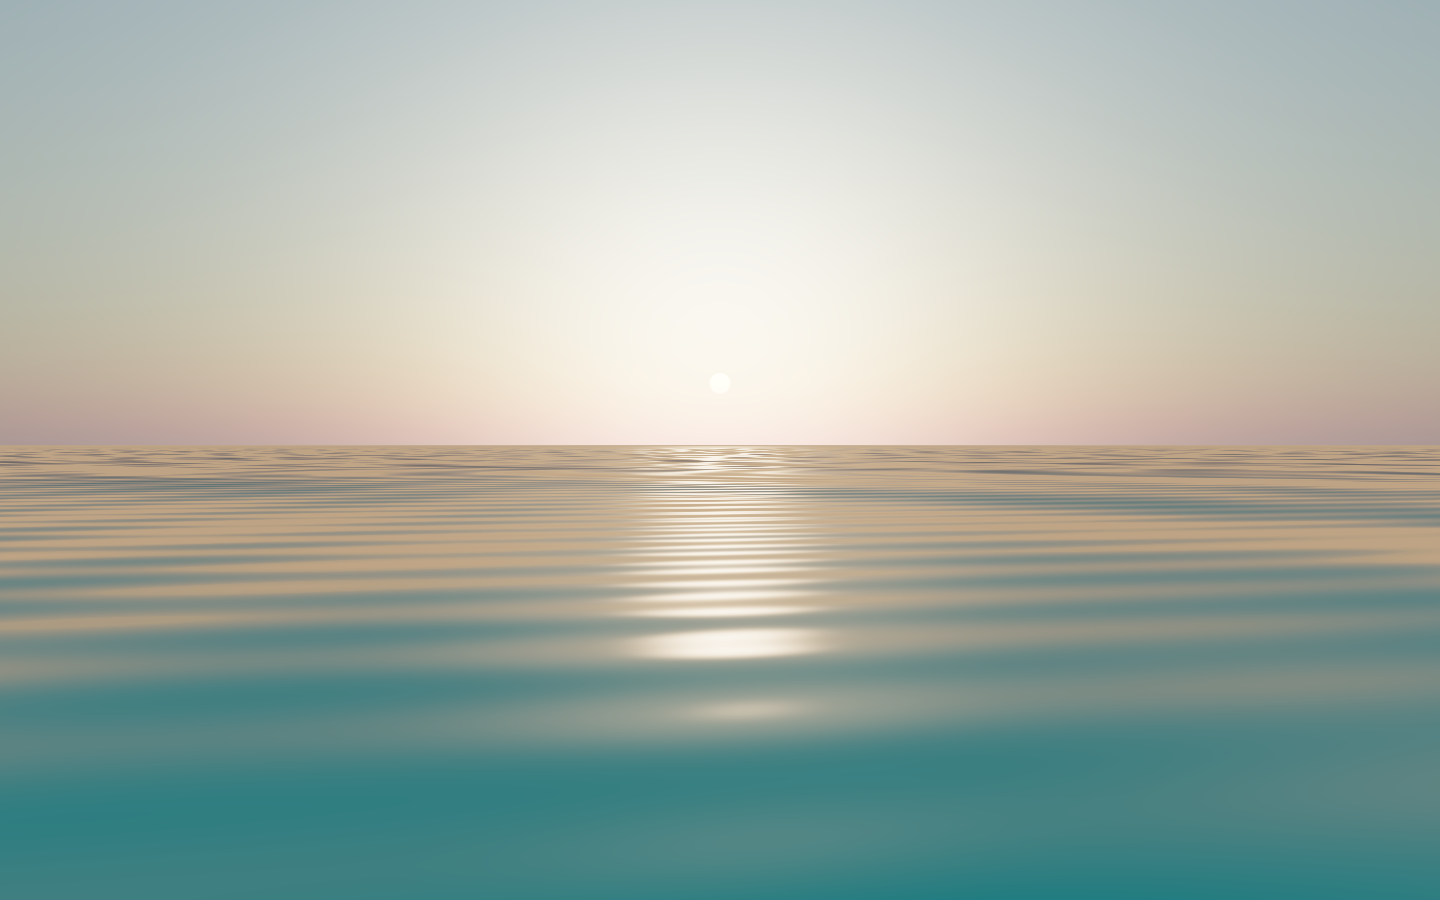
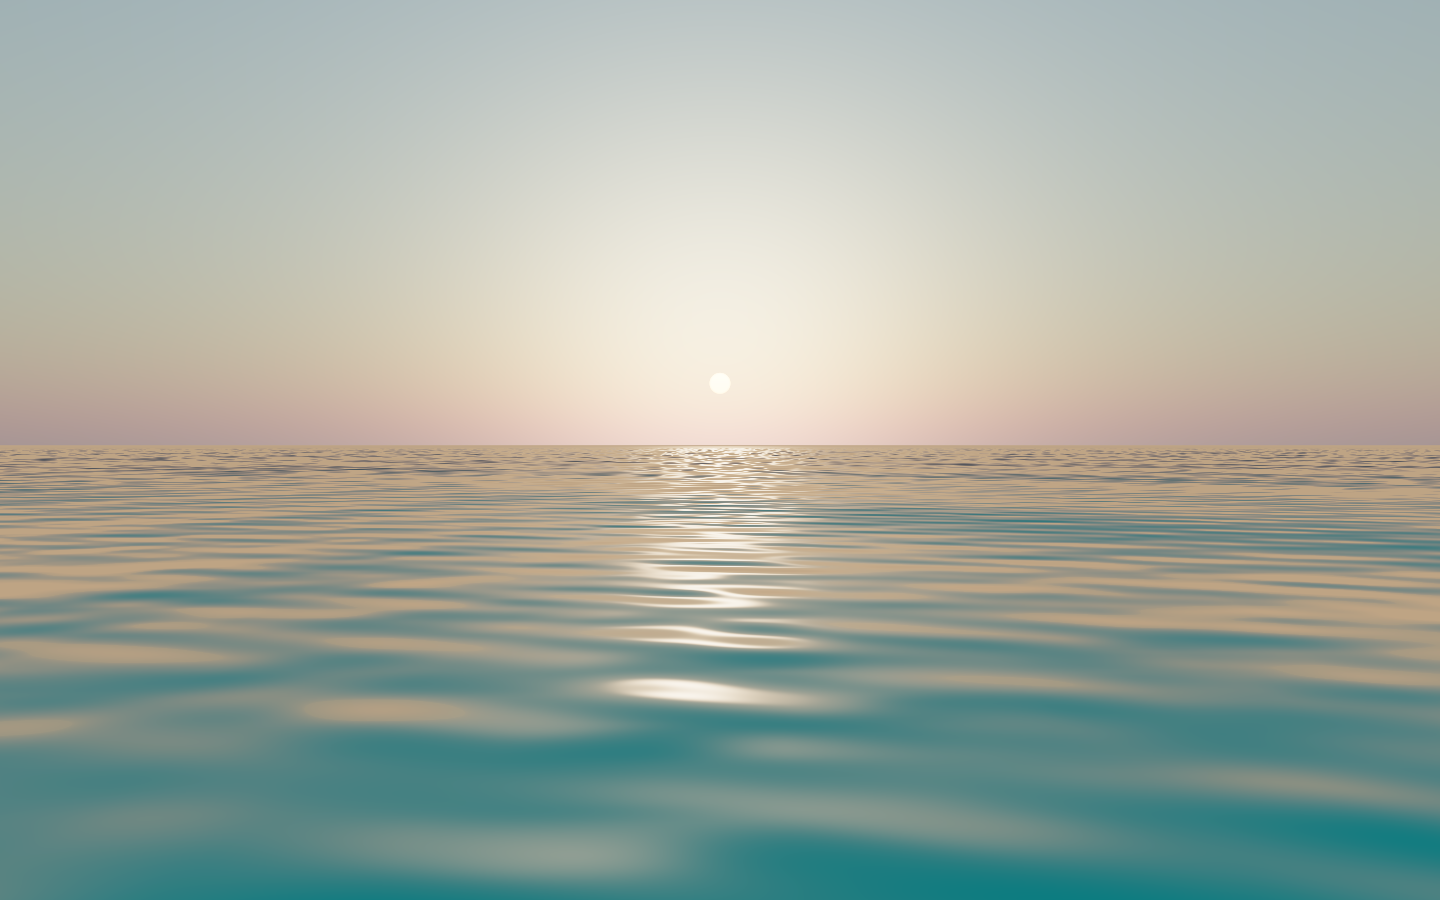
Pilot lessons: ocean shader animation fix (material in useMemo), more waves and noise, calmer sunset sky; rendered stills and data-stage guidance; self-hosted fonts; private-club marina variant and dock-photo fallback; mobile bar and compact concept tag on phones; QA and interact false positives fix
Claude-Session: https://claude.ai/code/session_01BKds8nJkxD2wBKhtSHhqqd

Changed region(s): [[0.0, 0.4978, 1.0, 1.0]]

diff --git a/.claude/skills/site-playbooks/recipes/Ocean.tsx b/.claude/skills/site-playbooks/recipes/Ocean.tsx
@@ -22,11 +22,18 @@ const oceanFrag = /* glsl */ `
 uniform float uTime; uniform vec3 uSun; uniform vec3 uDeep; uniform vec3 uShallow; uniform vec3 uHorizon; uniform vec3 uZenith; uniform vec3 uSunColor;
 varying vec3 vWorld;
 vec2 wave(vec2 p, vec2 d, float f, float s, float a){ float ph = dot(p, d) * f + uTime * s; return d * cos(ph) * a * f; }
+float hash(vec2 p){ return fract(sin(dot(p, vec2(127.1, 311.7))) * 43758.5453); }
+float vnoise(vec2 p){ vec2 i = floor(p), f = fract(p); f = f * f * (3.0 - 2.0 * f);
+  return mix(mix(hash(i), hash(i + vec2(1, 0)), f.x), mix(hash(i + vec2(0, 1)), hash(i + vec2(1, 1)), f.x), f.y); }
 void main(){
   vec2 p = vWorld.xz;
   vec2 g = wave(p, normalize(vec2(1.0, .3)), .08, 1.1, .5) + wave(p, normalize(vec2(-.4, 1.0)), .13, 1.5, .32)
          + wave(p, normalize(vec2(.7, -.6)), .31, 2.3, .14) + wave(p, normalize(vec2(-.9, -.2)), .73, 3.1, .06)
-         + wave(p, normalize(vec2(.2, .9)), 1.9, 4.7, .022);
+         + wave(p, normalize(vec2(.2, .9)), 1.9, 4.7, .022) + wave(p, normalize(vec2(.95, .35)), 1.17, 3.7, .03)
+         + wave(p, normalize(vec2(-.55, .83)), 2.9, 5.9, .012) + wave(p, normalize(vec2(.33, -.94)), 4.3, 7.3, .007);
+  // fine noise breaks up the regular stripes that a sum of sine waves produces
+  vec2 q = p * 0.9 + vec2(uTime * 0.35, uTime * 0.2);
+  g += (vec2(vnoise(q + vec2(.13, 0.)) - vnoise(q - vec2(.13, 0.)), vnoise(q + vec2(0., .13)) - vnoise(q - vec2(0., .13)))) * 0.22;
   vec3 n = normalize(vec3(-g.x, 1.0, -g.y));
   vec3 v = normalize(cameraPosition - vWorld);
   float dist = length(cameraPosition.xz - vWorld.xz);
@@ -65,17 +72,22 @@ function Scene({ elevation = 4, azimuth = 180, deep = '#0d3f57', shallow = '#2a9
     return new THREE.Vector3().setFromSphericalCoords(1, phi, theta)
   }, [elevation, azimuth])
   const golden = elevation < 8
+  // Build the material ourselves: in React Three Fiber v9 a `uniforms={obj}` prop on <shaderMaterial> is copied,
+  // so per-frame updates to obj silently do nothing (found in the Bell Channel pilot). Same rule for every shader recipe.
   const uniforms = useMemo(() => ({
     uTime: { value: 0 }, uSun: { value: sun.clone() },
     uDeep: { value: new THREE.Color(deep) }, uShallow: { value: new THREE.Color(shallow) },
     uHorizon: { value: new THREE.Color(golden ? '#f2c9a0' : '#cfe3ea') }, uZenith: { value: new THREE.Color(golden ? '#7f9bb3' : '#5f93c4') },
     uSunColor: { value: new THREE.Color(golden ? '#ffd2a1' : '#ffffff') },
   }), [sun, deep, shallow, golden])
+  const material = useMemo(() => new THREE.ShaderMaterial({ vertexShader: oceanVert, fragmentShader: oceanFrag, uniforms }), [uniforms])
+  useEffect(() => () => material.dispose(), [material])
 
   useEffect(() => {
     gl.toneMapping = THREE.ACESFilmicToneMapping; gl.toneMappingExposure = golden ? 0.5 : 0.6
     const u = sky.current.material.uniforms
-    u.turbidity.value = golden ? 7 : 4; u.rayleigh.value = golden ? 2.2 : 1.2; u.mieCoefficient.value = 0.005; u.mieDirectionalG.value = 0.86
+    // turbidity above ~4 turns a sunset sky olive; keep it low and let rayleigh carry the colour
+    u.turbidity.value = golden ? 3 : 2.5; u.rayleigh.value = golden ? 2.4 : 1.2; u.mieCoefficient.value = 0.005; u.mieDirectionalG.value = 0.86
     u.sunPosition.value.copy(sun)
   }, [gl, sun, golden])
 
@@ -89,9 +101,8 @@ function Scene({ elevation = 4, azimuth = 180, deep = '#0d3f57', shallow = '#2a9
   return (
     <>
       <sky ref={sky} scale={10000} />
-      <mesh rotation-x={-Math.PI / 2}>
+      <mesh rotation-x={-Math.PI / 2} material={material}>
         <planeGeometry args={[12000, 12000, 1, 1]} />
-        <shaderMaterial vertexShader={oceanVert} fragmentShader={oceanFrag} uniforms={uniforms} />
       </mesh>
       {children}
     </>

diff --git a/assets/concept.css b/assets/concept.css
@@ -16,3 +16,8 @@
 .concept-notes__meta{color:#6b675e;font-size:13px;margin:0}
 .concept-notes__close{float:right;appearance:none;border:0;background:#ebe8df;border-radius:999px;width:32px;height:32px;font-size:18px;line-height:32px;cursor:pointer}
 .concept-notes__foot{margin-top:1.25rem;padding-top:1rem;border-top:1px solid #e3dfd4;font-size:13px;color:#6b675e}
+.concept-ribbon.is-compact{padding:.25rem .25rem .25rem .7rem}
+.concept-ribbon.is-compact>span{position:absolute;width:1px;height:1px;overflow:hidden;clip:rect(0 0 0 0);white-space:nowrap}
+.concept-ribbon.is-compact::before{content:"Concept preview";font-size:10.5px}
+.concept-ribbon.is-compact .concept-ribbon__btn{font-size:0;padding:.45rem .6rem}
+.concept-ribbon.is-compact .concept-ribbon__btn::after{content:"Notes";font-size:10.5px}

diff --git a/assets/concept.js b/assets/concept.js
@@ -21,3 +21,11 @@
   document.addEventListener('keydown',function(e){ if(e.key==='Escape'&&wrap.classList.contains('is-open')) close(); });
   if(/[?&]notes=1/.test(location.search)) open();
 })();
+/* On phones the full label sits over the hero for the first moments only, then collapses to a small "Concept
+   preview" pill (still a button that opens the notes). The full wording stays in the DOM for screen readers. */
+(function(){
+  var r=document.getElementById('concept-ribbon'); if(!r||!window.matchMedia) return;
+  var mq=matchMedia('(max-width: 640px)'); var done=false;
+  function compact(){ if(done||!mq.matches) return; done=true; r.classList.add('is-compact'); }
+  setTimeout(compact,4500); addEventListener('scroll',function(){ if(scrollY>120) compact(); },{passive:true});
+})();

diff --git a/CLAUDE.md b/CLAUDE.md
@@ -20,7 +20,7 @@ The queue orders by audit priority: A (SMEs with no site or a weak one), B (SMEs
 1. **Truth only.** Every fact on a site (name, address, phone, email, hours, services, rooms, prices, awards, years, staff names) must come from research done in this session (firecrawl_scrape / WebSearch) or from `prospects.json`. Never invent reviews, testimonials, star ratings, awards, prices, statistics, client logos, or staff. If a fact is unknown, design around it or use a clearly marked neutral line such as "Rates on request". For businesses with no website (Track B in the skill), category-standard service lines inferred from a confirmed business category are allowed, phrased as categories only (no numbers, brands, years, certifications, guarantees), and every one is listed as an assumption to confirm with the owner.
 2. **Concept label.** Every page carries the shared concept label (`components.md`), shown by `assets/concept.css` as a small floating tag. It states the site is an unsolicited concept by the agency, not the business's official website. Never remove it, cover it or restyle it into a banner.
 3. **No indexing.** Every page has `<meta name="robots" content="noindex, nofollow">`. Root `robots.txt` disallows all. These previews must never compete with the real business in Google. The production-ready SEO (titles, descriptions, JSON-LD, canonical to the real domain) is still written in full, because that is what we are selling.
-4. **Stack: React + Vite + Tailwind v4 + shadcn/ui + Motion + three.js (React Three Fiber) + Lenis**, shared toolchain in `factory/web/`. Each site's source lives in `factory/web/sites/<slug>/` and is built to static `/<slug>/` with `node factory/tools/build-site.mjs <slug>` (it also prerenders every page so the shipped HTML contains all text for SEO). Vendored component libraries: `factory/web/src/components/ui` (shadcn), `/magicui` (Magic UI), `/reactbits` (React Bits backgrounds, gradients, text animations). See `.claude/skills/site-factory/references/components-catalog.md`. Never edit files in `factory/web/src/`, only import them. Google Fonts via `<link>` is allowed.
+4. **Stack: React + Vite + Tailwind v4 + shadcn/ui + Motion + three.js (React Three Fiber) + Lenis**, shared toolchain in `factory/web/`. Each site's source lives in `factory/web/sites/<slug>/` and is built to static `/<slug>/` with `node factory/tools/build-site.mjs <slug>` (it also prerenders every page so the shipped HTML contains all text for SEO). Vendored component libraries: `factory/web/src/components/ui` (shadcn), `/magicui` (Magic UI), `/reactbits` (React Bits backgrounds, gradients, text animations). See `.claude/skills/site-factory/references/components-catalog.md`. Never edit files in `factory/web/src/`, only import them. Fonts are self-hosted from npm `@fontsource` packages (components.md section 6), not Google Fonts links.
 5. **Never open another site's source.** Do not read any other business's `factory/web/sites/<slug>/` or built `/<slug>/` code: generation 1 copied one reference site and every page came out the same. Design from your dealt direction and the award-level sites you study.
 6. **Research tools (unattended runs):** never use the WebFetch tool: it stops the session for a manual approval on every new domain. Read pages with the Firecrawl connector `firecrawl_scrape` (formats ["markdown","links","images"], onlyMainContent true) and search with `WebSearch` or `firecrawl_search`. The sandbox shell cannot reach the internet (except GitHub and package registries), so never curl. Do not try workarounds (mirrors, caches, proxies) for sites the tools refuse.
 7. **Images and 3D: real, never toy** (exact procedures in `.claude/skills/art-director/references/imagery.md`). Allowed sources: (a) image URLs seen verbatim on the business's own website or official social pages; (b) Wikimedia Commons photos of the real place under CC0, CC BY, CC BY-SA or public domain, credited with artist and licence on the page; (c) photoreal images generated in a Lovable asset project for this business, showing the trade and its subject, never presented as the client's own property, staff, rooms or boats, listed as "illustrative photography, replace with your own" in status and concept notes; (d) 3D that reads as real: the recipes in `.claude/skills/site-playbooks/recipes/` (photoreal ocean and sky, studio-lit objects, living photographs), GLB models from Higgsfield or img2threejs. Never hotlink Google Maps, TripAdvisor, Booking or news-site photos. Never stock libraries, placeholders, SVG drawings of scenes, buildings, vehicles or landscapes, or toy low-poly 3D.

diff --git a/.claude/skills/art-director/SKILL.md b/.claude/skills/art-director/SKILL.md
@@ -99,5 +99,6 @@ there one clear typographic idea and enough space? Iterate up to three times. On
 1. `qa.mjs` (if it prints BLIND, say so in notes), `interact.mjs`, `distinct.mjs` (fix every blocker).
 2. Fresh-eyes critic: spawn a general-purpose subagent with this prompt and the paths: "You are the creative director of an award-winning studio. Look at <index-desktop.png>, <index-mobile.png>, the reference screenshots <ref1-desktop.png>, <ref2-desktop.png>, and factory/qa/_contact.png (other sites in this repo). 1) Does this look like premium hand-made work for this specific business, or like AI output, a template or paperwork? Be specific and harsh. 2) Score 1-5: photography, typography, composition and space, colour, fit to the business and its real web setup, distinct from the contact sheet, would sit next to the references. 3) The three changes that would most raise it."
    Scoring anchors (give the critic these): 5 = could be Awwwards Site of the Day in its category; 4 = belongs in a top studio's portfolio, an owner would pay $1,000+ for it gladly; 3 = competent but template-like or uneven, nobody would remember it; 2 = amateur or obviously AI-made (gimmicks, wrong fonts, weak photos, paperwork); 1 = broken.
+   If the reference or current-site screenshots could not be captured (network blocked), give the critic the reference names and ask it to judge from its knowledge of those sites, and say so in status notes.
 3. `qa.mjs` prints "craft" metrics measured on the real page (first-screen photo coverage, font families, body size, line length, scale contrast, photo count, button styles). Treat every craft warning as a design defect to fix, not a note.
 4. Every score must be 4 or more. Apply the changes, rebuild, and ask the critic to re-score the NEW screenshots: never record first-pass scores as final or mark changes "not re-scored" (CBS and BVG published with scores of 2 and 3 because fixes were applied blindly). If after two fix passes any score is still below 4, set status `state` to "needs-review" with the reason instead of "built" and still publish, so Balazs sees it is not ready.

diff --git a/.claude/skills/site-playbooks/playbooks/marina.md b/.claude/skills/site-playbooks/playbooks/marina.md
@@ -8,6 +8,11 @@ with every other harbour on the route and with Florida marinas they know. They f
 approach, no slip on arrival, a marina that feels run-down. They choose a place that feels calm, competent
 and quietly exclusive, and that answers the captain's questions in seconds.
 
+**Variant: private club and residences.** Some marinas (Bell Channel) are owners' condominium clubs with a private
+dock, not public marinas. Then the buyers are owners, prospective buyers or renters of units, and visiting boaters
+asking whether a slip is ever available. Route them early ("Who is asking?": an owner, a prospective buyer, a
+visiting boat) and sell the place to live, not transient slips.
+
 ## 2. What wins the owner
 "Your harbour finally looks like the place yacht owners talk about, and a captain can check everything they
 need from the cockpit on a phone." Most marina sites here are dated brochures or boating-guide pages.
@@ -15,7 +20,8 @@ need from the cockpit on a phone." Most marina sites here are dated brochures or
 ## 3. Big ideas (pick one, or invent a truer one)
 - **The arrival.** A ScrollStage with the Ocean recipe at dusk or first light: scrolling carries the visitor
   across open water toward the harbour; chapter captions name the real waypoints (the channel, the markers, the
-  island). At the end the scene dissolves into a real photograph of the docks. (Ocean, ScrollStage, PhotoDepth)
+  island). At the end the scene dissolves into a real photograph of the docks. If no real dock photo exists (often), end on an
+  excellent Commons photo of the real bay or inlet, or on a still rendered from the scene. (Ocean, ScrollStage, PhotoDepth)
 - **Will she fit?** A precise, elegant slip checker as the hero: enter length, beam and draft; the page shows
   the marina's sourced limits and answers yes, ask, or no, with a calm visual of the hull against the slip.
   Only with sourced numbers; otherwise "Ask the dockmaster" states clearly what to ask. (Enquiry for the request)

diff --git a/.claude/skills/art-director/references/imagery.md b/.claude/skills/art-director/references/imagery.md
@@ -27,7 +27,7 @@ One Lovable project per business, used only as an image studio, about 1 Lovable 
    1. <name>.jpg (<ratio>): <precise scene>
    2. ..."
 2. `mcp__Lovable__deploy_project` with name `ip-assets-<slug>` (shorten to 40 chars). Images are then live at `https://ip-assets-<slug>.lovable.app/assets/<name>.jpg`.
-3. Look at the images: `node factory/tools/look.mjs https://ip-assets-<slug>.lovable.app lovable-<slug>` and read the PNG (or the screenshot `mcp__Lovable__get_project` returns). Regenerate (`send_message`, same project) any image that looks fake, has text, extra limbs, wrong architecture or a non-Bahamian setting. One regeneration round at most.
+3. Look at the images. If the network is blocked, `mcp__Lovable__get_project` still returns a screenshot of the gallery page: read it, and crop it into separate files for the critic. Otherwise: `node factory/tools/look.mjs https://ip-assets-<slug>.lovable.app lovable-<slug>` and read the PNG (or the screenshot `mcp__Lovable__get_project` returns). Regenerate (`send_message`, same project) any image that looks fake, has text, extra limbs, wrong architecture or a non-Bahamian setting. One regeneration round at most.
 4. If any Lovable call returns `awaiting_input` or a credit limit, stop using Lovable for this site and continue with sources 1, 2 and 4. Never wait on it.
 
 ### Art-directing the generated set (this is where quality comes from)

diff --git a/.claude/skills/site-factory/references/components.md b/.claude/skills/site-factory/references/components.md
@@ -70,3 +70,15 @@ This is how every site becomes a future node on the agency's delivery/booking pl
 
 ## 5. Mobile primary action
 The primary action (call, WhatsApp if sourced, or the enquiry) must be thumb-reachable on phones, in the form your archetype gives it: a magazine tear-off strip, a floating dock, a legend bottom sheet, a toolbar button, a reply-card tab, a single "Enquire" word. Design it; never paste the generation-1 two-cell bar with `aria-label="Quick actions"` (distinct.mjs blocks it). Use `padding-bottom: env(safe-area-inset-bottom)` for anything fixed to the bottom and leave room so the footer is not covered.
+
+
+## 6. Fonts: self-host, never a Google Fonts link
+Google Fonts may be unreachable in the build sandbox, so QA and the critic would judge fallback fonts. The npm
+registry is always reachable: `cd /tmp && npm pack @fontsource-variable/<family>` (or `@fontsource/<family>`),
+untar it, copy the latin `.woff2` files into `factory/web/sites/<slug>/src/fonts/`, and declare them with
+`@font-face` (`font-display: swap`) in `styles.css`. They ship with the site and load everywhere.
+
+## 7. Mobile action bars
+A fixed mobile bar plus the concept tag can cover 130 px of a phone screen. Hide your bar on the first screen
+(the hero carries the phone number) and when the contact section is in view; set `--concept-offset` so the tag
+sits above it when it shows.

diff --git a/.claude/skills/site-playbooks/SKILL.md b/.claude/skills/site-playbooks/SKILL.md
@@ -61,6 +61,11 @@ Recipes are techniques, not layouts; two sites using the same recipe must still 
 | `Enquiry.tsx` | choices to summary to a prefilled WhatsApp or email message | every business that takes bookings, quotes or enquiries |
 | `Shop.tsx` | catalogue with filters, cart drawer, checkout preview handing off to their store | every business that really sells online |
 
+Lessons from the Bell Channel pilot, built into the recipes:
+- **Shader materials**: create them with `new THREE.ShaderMaterial({...})` inside `useMemo` and pass `material={...}` to the mesh. A `uniforms={obj}` prop on `<shaderMaterial>` is copied, so per-frame updates silently do nothing.
+- **Rendered stills**: a still rendered from your own 3D scene (Playwright screenshot of the canvas at a chosen progress, saved as JPG in the site's `public/`) is free, true to the idea, and works as the canvas poster, the no-WebGL fallback, an inner-page hero and the social share image.
+- **Scroll stages**: give the pinned section `data-stage` so QA does not mistake its pinned height for empty space, or its waiting chapter captions for hidden text.
+
 Combining is where the magic is: a ScrollStage holding the Ocean with chapters is a cinematic arrival; a
 ScrollStage holding a ModelStage with callouts is a product film; PhotoDepth inside a HorizontalTrack is a
 gallery of living places.

diff --git a/factory/HANDOFF.md b/factory/HANDOFF.md
@@ -30,6 +30,9 @@ The pipeline was then consolidated (Nov 8 evening). The art-director skill's "Wh
   - `reroll.mjs`, `publish.sh`, `build-site.mjs`, `interact.mjs`.
 - Concept label: now a small floating tag (`assets/concept.css`), not a black bar across every site.
 
+## Pilot result (Nov 20)
+Bell Channel was rebuilt with the marina playbook ("the arrival", Ocean recipe). It was the first genuinely premium result; critic scores 4/4/4/4/4/5/4 after real re-scoring. Its 12 feedback points are folded into the playbooks, recipes and tools (project doc claude/pilot-bell-channel-feedback.md). The cloud environment's network was still "Limited": Balazs must set the Claude Code cloud environment's Network access to Full (environment settings), otherwise builders cannot see photos or references.
+
 ## Open items, in order
 0. **Network check.** Balazs allowed all domains around 16:21. In the new session, run `node factory/tools/look.mjs https://www.aesop.com test` and read the PNG. If it fails, ask Balazs to check Settings > Capabilities, because nothing good can be judged blind.
 1. **Site audit** for the 69 remaining sites with a URL and the 23 without one (factory/AUDIT.md). Check each classification by looking: automatic extraction called a listings site a webshop. Show Balazs the A list.
